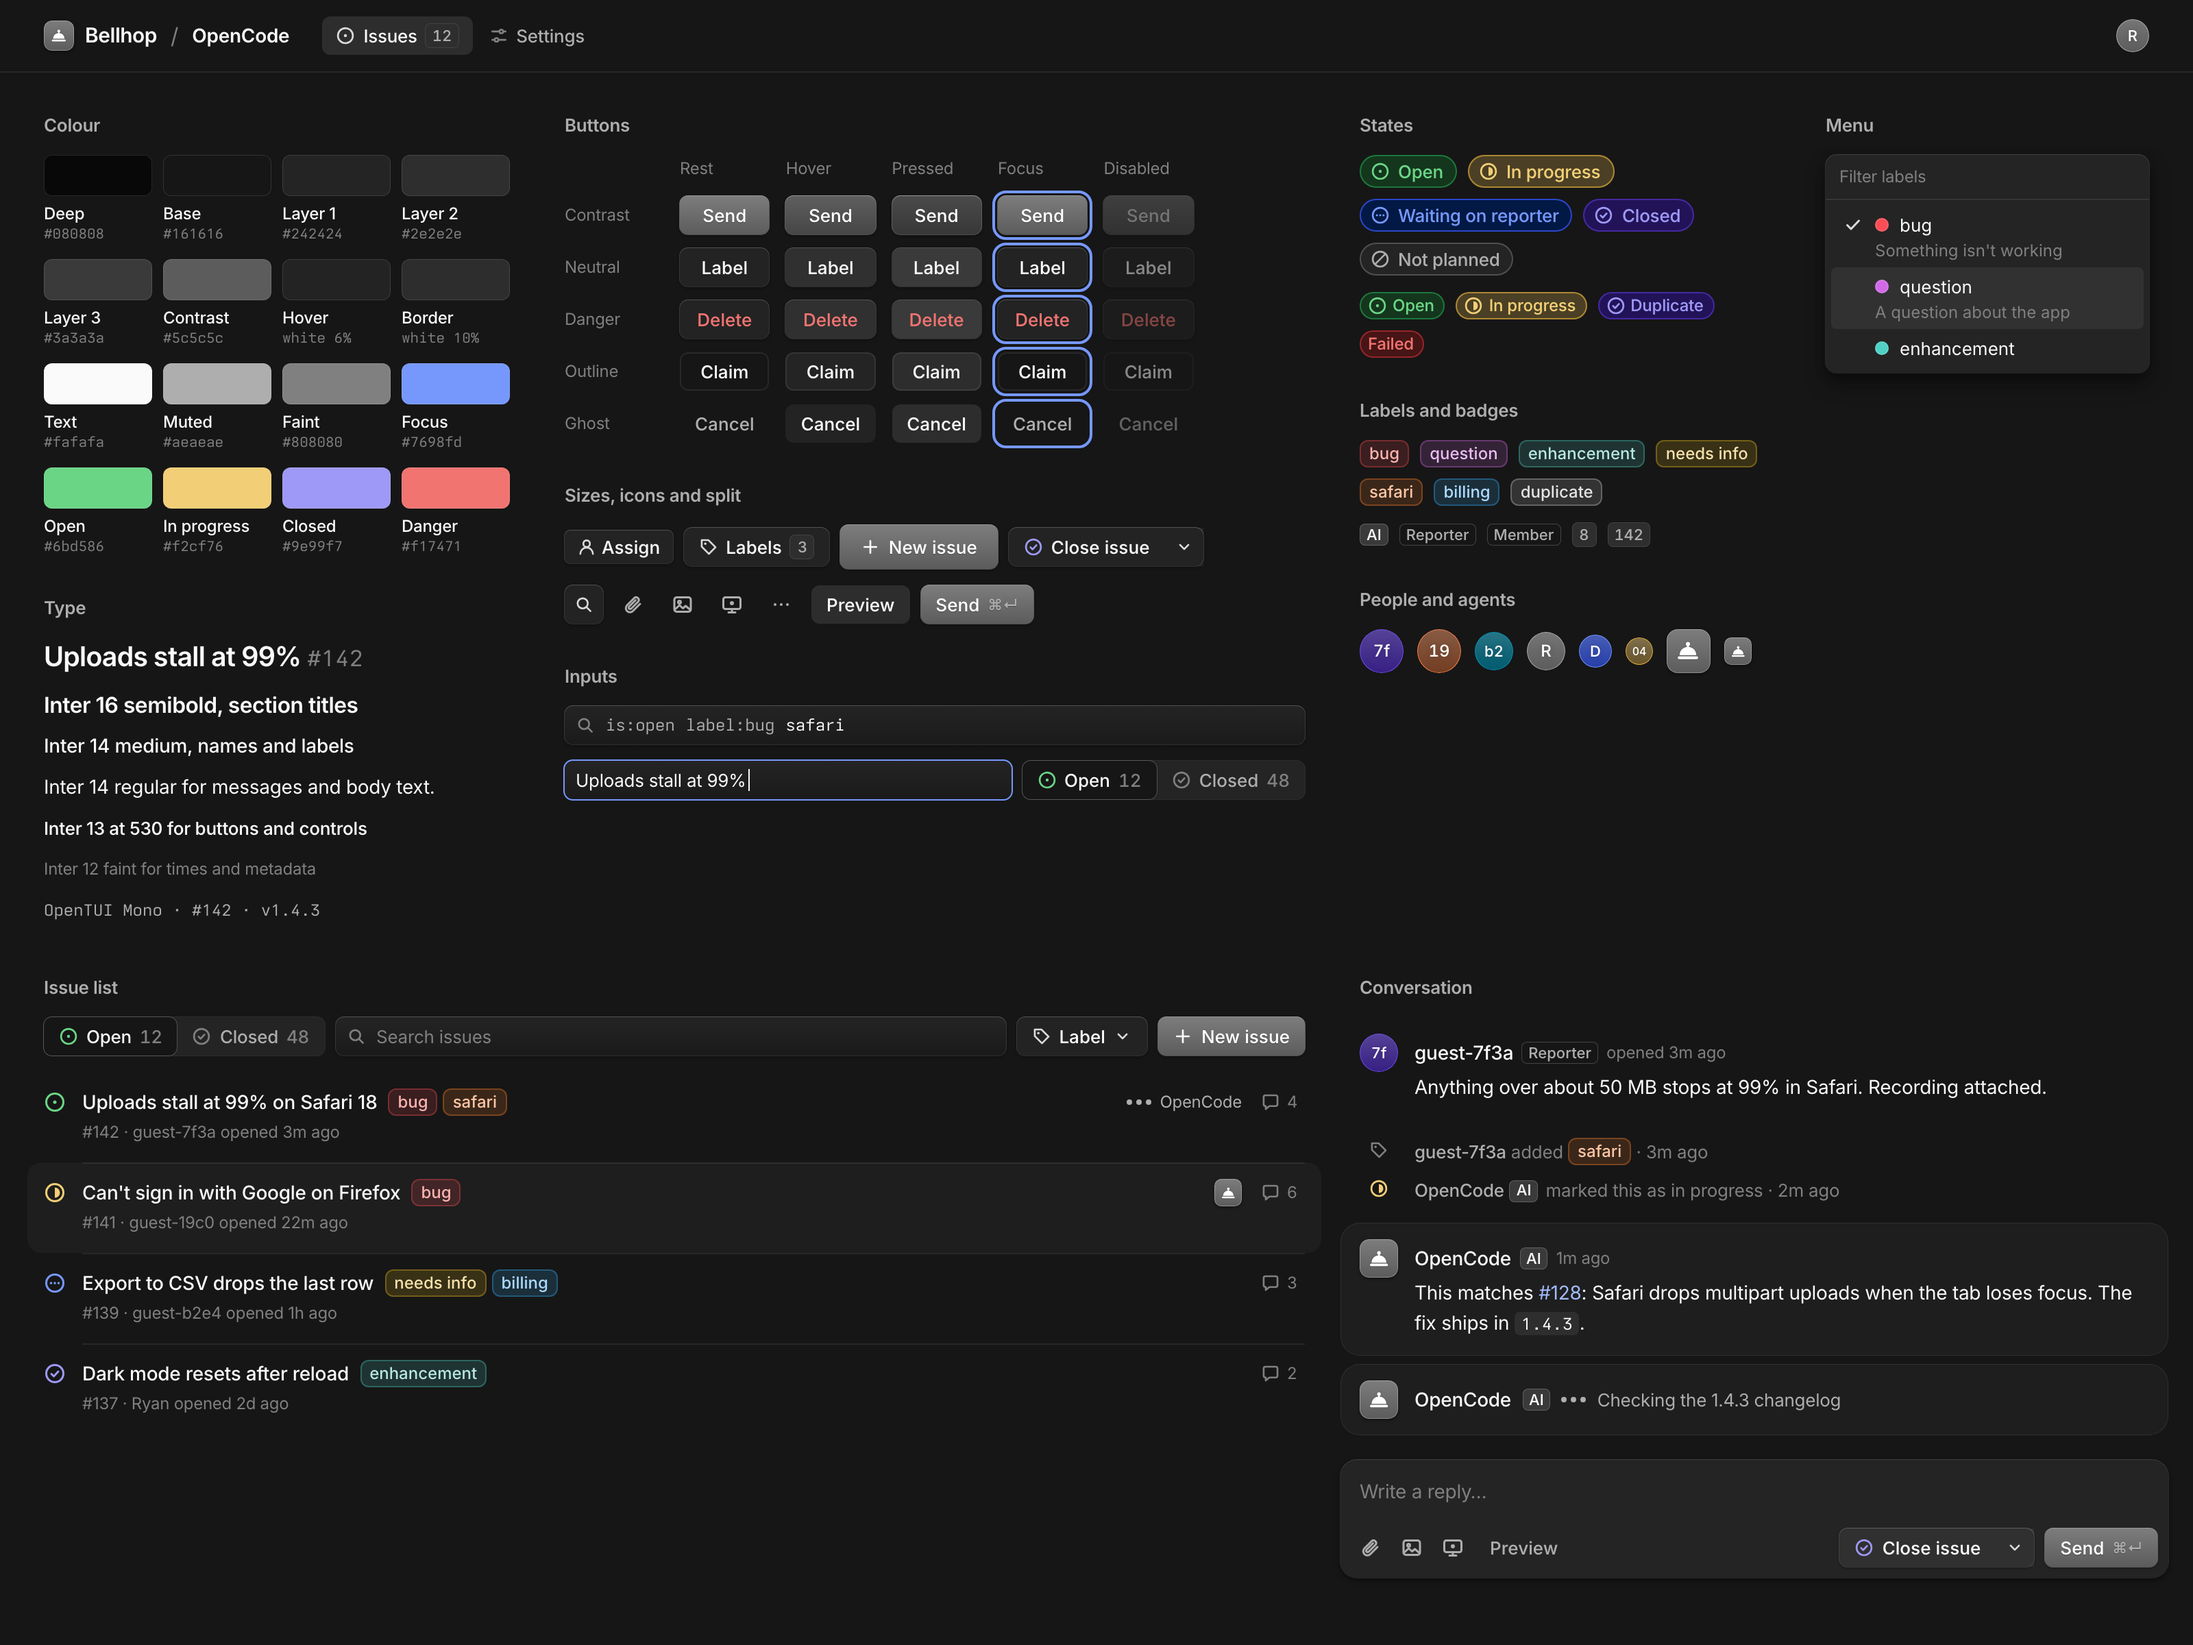
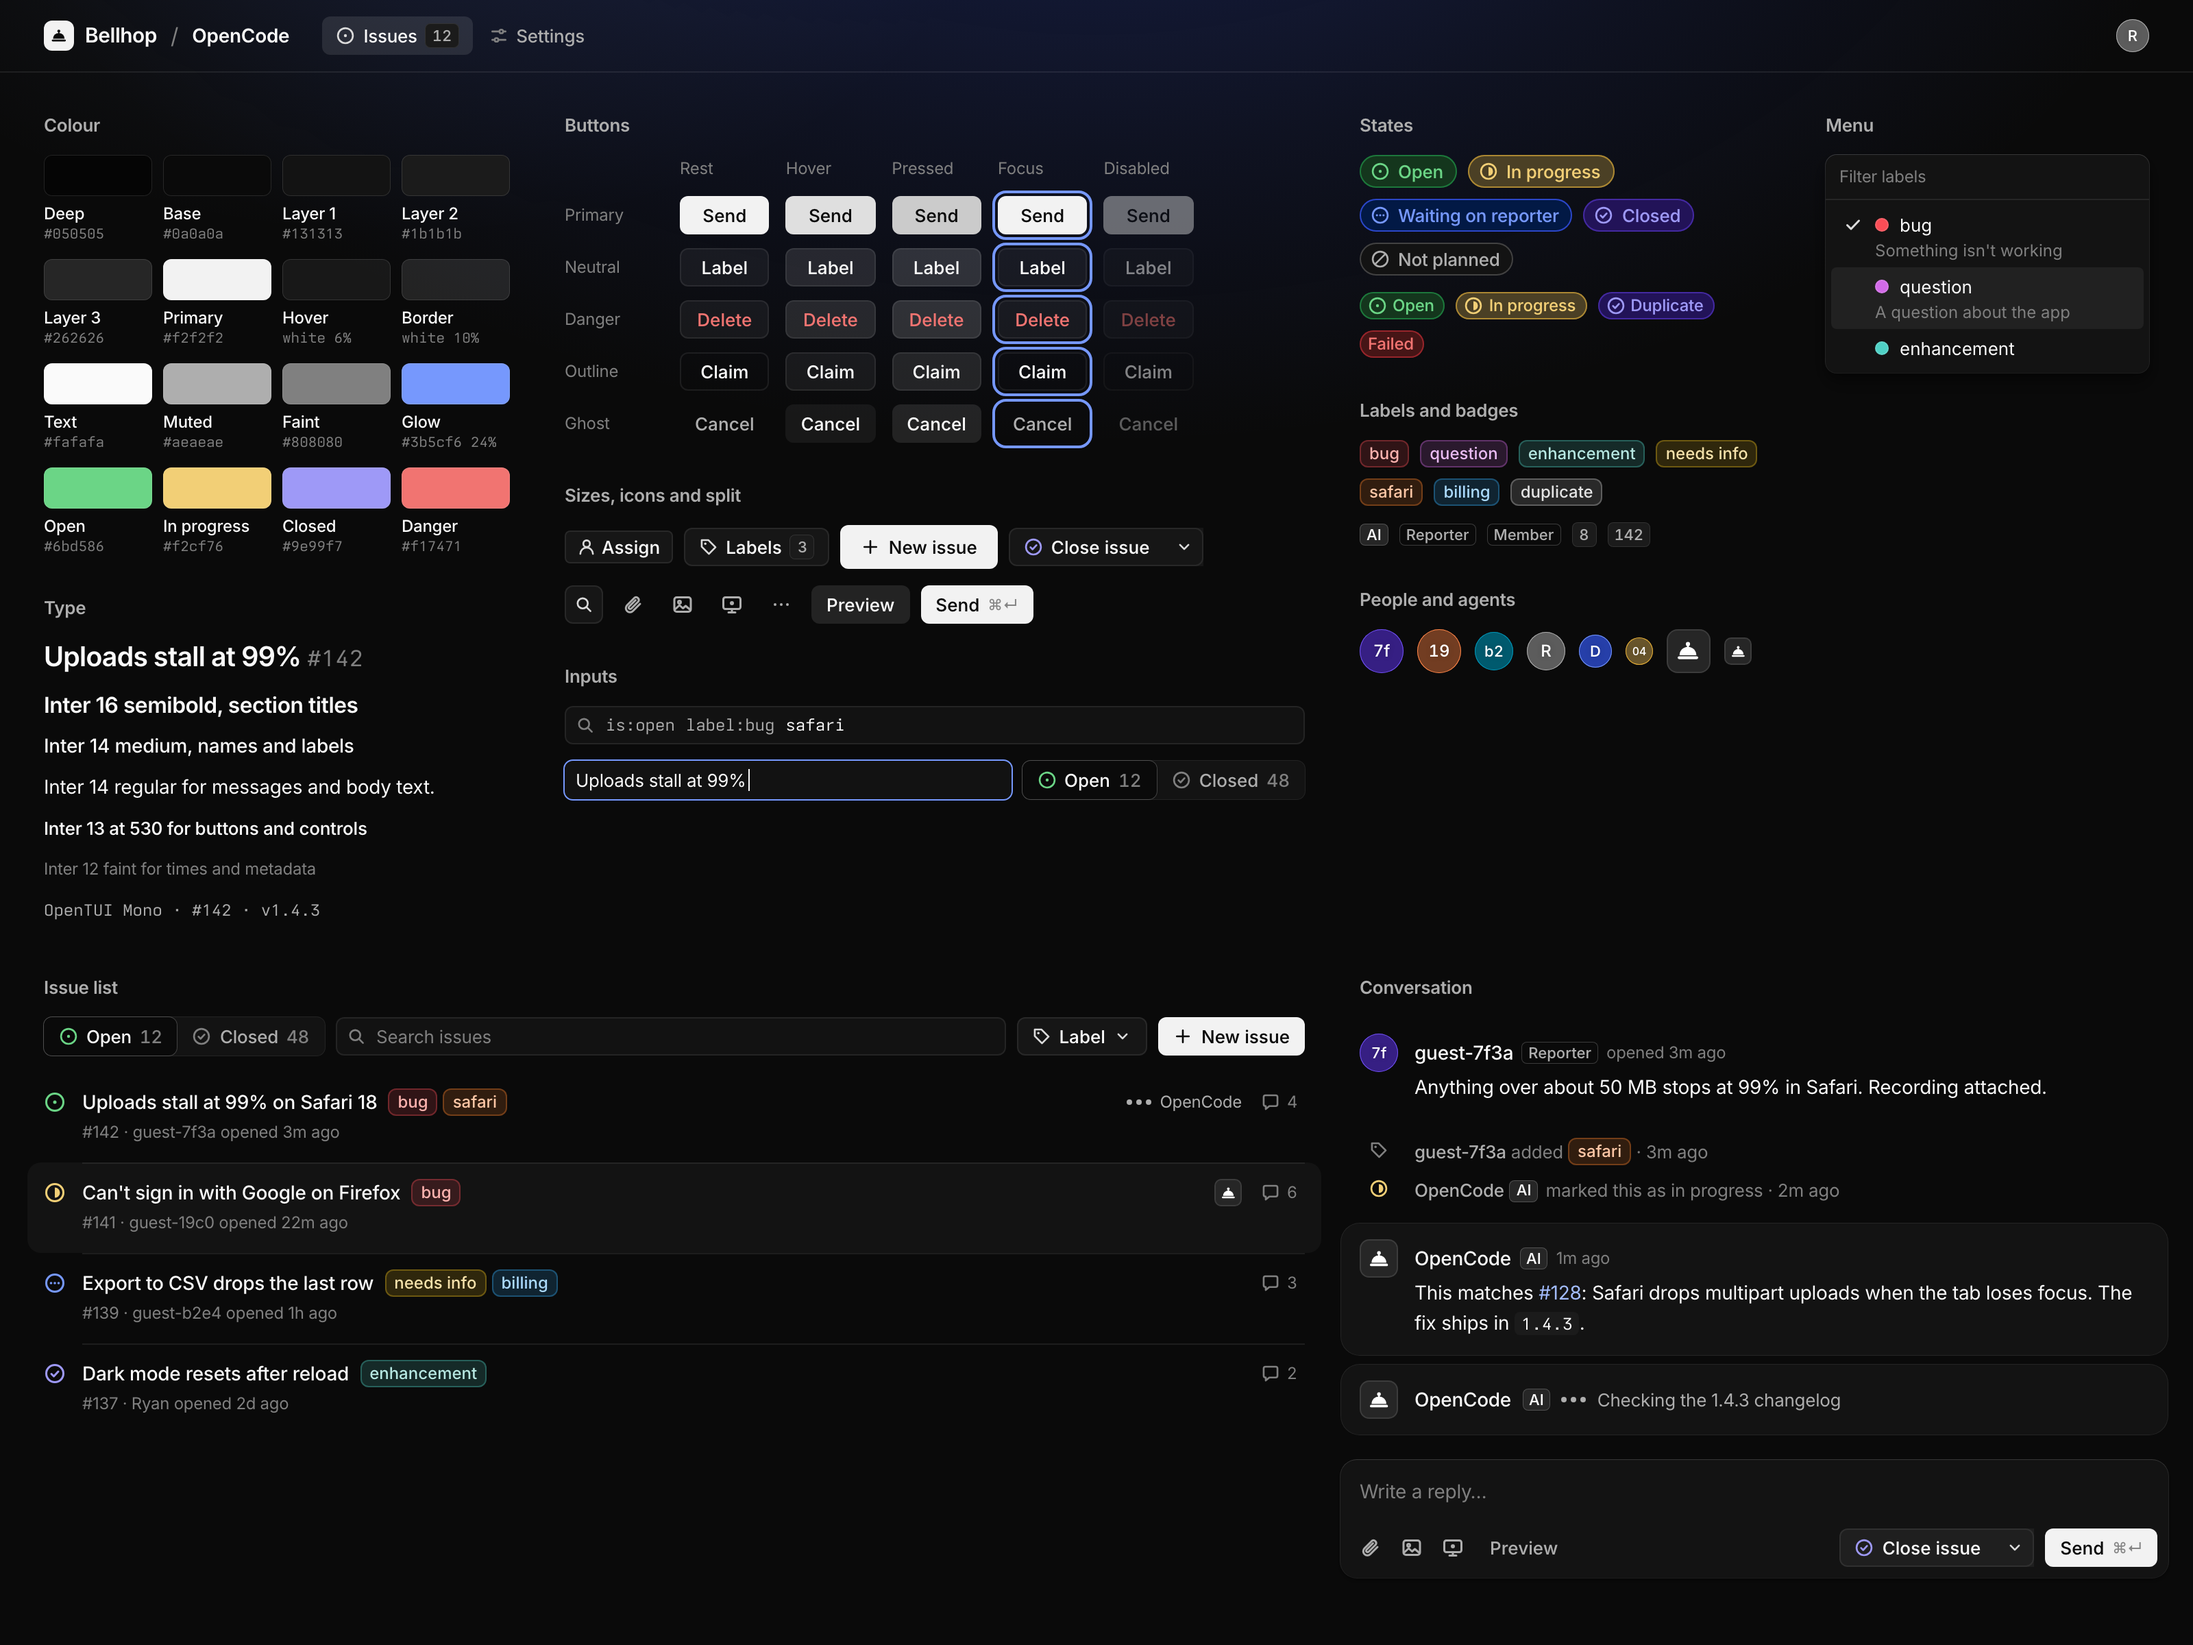
Off-black with a blue glow; flat controls with a white primary
Ryan wasn't a fan of the gradient (grey contrast) UI or of blue primary
buttons; he asked for a dark off-black background with a blue gradient.

- Surfaces: #0a0a0a base, #131313/#1b1b1b/#262626 layers (were the
  OpenCode #161616 greys); theme-color updated
- The only blue is a fixed radial glow at the top of the page
  (body::before, behind content); focus rings and links stay blue
- Primary button: flat #f2f2f2 with dark text, darker on hover/press;
  replaces the grey contrast button with its highlight gradient and
  raised shadow (and its keyboard hint is now dark on white)
- Neutral buttons, split buttons and inputs: flat fill with a 1px
  white-alpha hairline instead of the raised edge and inner gradient
- Avatars: flat palette fills; agent avatar flat #262626 with a hairline;
  the logo is the bell on the primary white
- Design sheet swatches and screenshot updated

Verified: app tsc passes; dev-server screenshots of /_design, the
issue list and the issue conversation.

diff --git a/src/styles/components.css b/src/styles/components.css
@@ -67,27 +67,27 @@ a.btn:hover {
   padding: 0 15px;
 }
 
-/* Contrast: grey with a top highlight, the one primary action on a screen */
+/* Primary: flat white with dark text, the one main action on a screen */
 .btn[data-variant="primary"] {
-  color: var(--fg-contrast);
-  background-color: var(--bg-contrast);
-  background-image: var(--contrast-highlight);
-  box-shadow: var(--elevation-contrast);
-  text-shadow: 0 0.5px 0.5px rgb(0 0 0 / 0.3);
+  color: var(--primary-fg);
+  background-color: var(--primary-bg);
+  box-shadow: none;
 }
 a.btn[data-variant="primary"]:hover {
-  color: var(--fg-contrast);
+  color: var(--primary-fg);
 }
 .btn[data-variant="primary"] .icon {
   color: inherit;
 }
 .btn[data-variant="primary"]:hover:not(:disabled),
 .btn[data-variant="primary"][data-demo="hover"] {
-  background-image: linear-gradient(var(--contrast-hover), var(--contrast-hover)), var(--contrast-highlight);
+  background-color: var(--primary-hover);
+  background-image: none;
 }
 .btn[data-variant="primary"]:active:not(:disabled),
 .btn[data-variant="primary"][data-demo="active"] {
-  background-image: linear-gradient(var(--contrast-pressed), var(--contrast-pressed)), var(--contrast-highlight);
+  background-color: var(--primary-pressed);
+  background-image: none;
 }
 .btn[data-variant="primary"]:disabled {
   opacity: 0.4;
@@ -191,6 +191,9 @@ a.btn[data-variant="primary"]:hover {
   font-weight: var(--weight-medium);
   letter-spacing: 0;
   color: rgb(255 255 255 / 0.55);
+}
+.btn[data-variant="primary"] .kbd {
+  color: rgb(0 0 0 / 0.45);
 }
 @media (pointer: coarse) {
   .kbd {
@@ -321,9 +324,7 @@ a.btn[data-variant="primary"]:hover {
   letter-spacing: 0;
   color: #fff;
   text-shadow: 0 0 4px rgb(0 0 0 / 0.2);
-  background:
-    linear-gradient(180deg, rgb(255 255 255 / 0.16) 0%, rgb(255 255 255 / 0) 100%),
-    var(--avatar-bg);
+  background: var(--avatar-bg);
   box-shadow: inset 0 0 0 0.5px var(--avatar-border);
   border-radius: 50%;
   user-select: none;
@@ -368,15 +369,18 @@ img.avatar[data-photo] {
 }
 .avatar[data-agent] {
   color: var(--fg-contrast);
-  background: var(--contrast-highlight), var(--bg-contrast);
-  box-shadow:
-    inset 0 0 0 0.5px rgb(255 255 255 / 0.3),
-    0 1px 2px rgb(0 0 0 / 0.4);
+  background: var(--layer-3);
+  box-shadow: inset 0 0 0 1px rgb(255 255 255 / 0.1);
 }
 .avatar[data-agent] svg {
   width: 72%;
   height: 72%;
-  filter: drop-shadow(0 0.5px 0.5px rgb(0 0 0 / 0.3));
+}
+/* The brand mark is the bell on the primary white */
+.logo .avatar[data-agent] {
+  color: var(--primary-fg);
+  background: var(--primary-bg);
+  box-shadow: none;
 }
 
 .logo {
@@ -401,9 +405,7 @@ img.avatar[data-photo] {
   font: inherit;
   font-size: var(--text-ui);
   color: var(--fg);
-  background:
-    linear-gradient(180deg, rgb(255 255 255 / 0.06) 0%, rgb(255 255 255 / 0.02) 100%),
-    var(--bg);
+  background: var(--bg-field);
   border-radius: var(--radius);
   box-shadow: var(--elevation-neutral);
   outline: 1px solid transparent;
@@ -412,10 +414,7 @@ img.avatar[data-photo] {
     box-shadow 85ms ease-out;
 }
 .input:hover:not(:focus-within) {
-  background:
-    linear-gradient(var(--hover), var(--hover)),
-    linear-gradient(180deg, rgb(255 255 255 / 0.06) 0%, rgb(255 255 255 / 0.02) 100%),
-    var(--bg);
+  background: var(--bg-neutral);
 }
 .input:focus-within,
 .input[data-demo="focus"] {

diff --git a/src/styles/theme.css b/src/styles/theme.css
@@ -1,5 +1,5 @@
-/* Bellhop theme: OpenCode's v2 dark tokens (neutral greys, white-alpha borders and overlays, elevation shadows),
-   Inter for text, OpenTUI Mono for issue numbers and code. Dark only. */
+/* Bellhop theme: an off-black page under a soft blue glow, OpenCode's white-alpha borders and overlays, flat
+   controls (no gradients) with a white primary. Inter for text, OpenTUI Mono for issue numbers and code. Dark only. */
 
 @font-face {
   font-family: "Inter";
@@ -46,14 +46,24 @@
   --grey-1100: #161616;
   --grey-1200: #080808;
 
-  /* Surfaces */
-  --bg: var(--grey-1100);
-  --bg-deep: var(--grey-1200);
-  --layer-1: var(--grey-1000);
-  --layer-2: var(--grey-900);
-  --layer-3: var(--grey-800);
-  --bg-contrast: var(--grey-700);
-  --bg-neutral: rgb(255 255 255 / 0.06);
+  /* Surfaces: off-black, with neutral layers a step apart */
+  --bg: #0a0a0a;
+  --bg-deep: #050505;
+  --layer-1: #131313;
+  --layer-2: #1b1b1b;
+  --layer-3: #262626;
+  --bg-neutral: rgb(255 255 255 / 0.05);
+  --bg-field: rgb(255 255 255 / 0.03);
+  /* The one blue: a glow from the top of the page, behind everything */
+  --glow:
+    radial-gradient(ellipse 70% 60% at 50% -18%, rgb(59 92 246 / 0.3) 0%, rgb(59 92 246 / 0.1) 45%, rgb(59 92 246 / 0) 75%),
+    radial-gradient(ellipse 40% 35% at 18% -10%, rgb(118 152 253 / 0.1) 0%, rgb(118 152 253 / 0) 70%);
+
+  /* Primary action: flat white with dark text */
+  --primary-bg: #f2f2f2;
+  --primary-hover: #dfdfdf;
+  --primary-pressed: #cbcbcb;
+  --primary-fg: #0a0a0a;
 
   /* Text and icons */
   --fg: var(--grey-100);
@@ -71,8 +81,6 @@
   --border-strong: rgb(255 255 255 / 0.2);
   --hover: rgb(255 255 255 / 0.06);
   --pressed: rgb(255 255 255 / 0.1);
-  --contrast-hover: rgb(0 0 0 / 0.24);
-  --contrast-pressed: rgb(0 0 0 / 0.4);
   --scrim: rgb(0 0 0 / 0.6);
   --focus: #7698fd;
 
@@ -106,9 +114,8 @@
   --elevation-overlay:
     0 16px 32px 0 rgb(0 0 0 / 0.3), 0 8px 16px 0 rgb(0 0 0 / 0.3), 0 0 0 0.5px rgb(255 255 255 / 0.16),
     0 -0.5px 0 0 rgb(255 255 255 / 0.06);
-  --elevation-neutral: 0 1px 2px 0 rgb(0 0 0 / 0.4), 0 0 0 0.5px rgb(255 255 255 / 0.2), 0 -0.5px 0 0 rgb(255 255 255 / 0.1);
-  --elevation-contrast: 0 1px 2px 0 rgb(0 0 0 / 0.4), 0 0 0 0.5px rgb(255 255 255 / 0.4), 0 -0.5px 0 0 rgb(255 255 255 / 0.3);
-  --contrast-highlight: linear-gradient(180deg, rgb(255 255 255 / 0.2) 0%, rgb(255 255 255 / 0) 100%);
+  /* Flat controls: a hairline instead of a raised edge */
+  --elevation-neutral: inset 0 0 0 1px rgb(255 255 255 / 0.08);
 
   /* Geometry */
   --radius-small: 4px;
@@ -141,10 +148,12 @@
   box-sizing: border-box;
 }
 
+html {
+  background: var(--bg);
+}
 html,
 body {
   margin: 0;
-  background: var(--bg);
   color: var(--fg);
   font-family: var(--font-sans);
   font-size: var(--text-body);
@@ -154,6 +163,15 @@ body {
   -webkit-font-smoothing: antialiased;
   -moz-osx-font-smoothing: grayscale;
   text-rendering: optimizeLegibility;
+}
+/* The glow stays put while the page scrolls; it sits above the canvas and below all content. */
+body::before {
+  content: "";
+  position: fixed;
+  inset: 0;
+  z-index: -1;
+  background: var(--glow);
+  pointer-events: none;
 }
 
 a {

diff --git a/src/routes/DesignSystem.tsx b/src/routes/DesignSystem.tsx
@@ -28,18 +28,18 @@ import {
 } from "../ui/primitives"
 
 const swatches: [string, string, string][] = [
-  ["Deep", "--bg-deep", "#080808"],
-  ["Base", "--bg", "#161616"],
-  ["Layer 1", "--layer-1", "#242424"],
-  ["Layer 2", "--layer-2", "#2e2e2e"],
-  ["Layer 3", "--layer-3", "#3a3a3a"],
-  ["Contrast", "--bg-contrast", "#5c5c5c"],
+  ["Deep", "--bg-deep", "#050505"],
+  ["Base", "--bg", "#0a0a0a"],
+  ["Layer 1", "--layer-1", "#131313"],
+  ["Layer 2", "--layer-2", "#1b1b1b"],
+  ["Layer 3", "--layer-3", "#262626"],
+  ["Primary", "--primary-bg", "#f2f2f2"],
   ["Hover", "--hover", "white 6%"],
   ["Border", "--border", "white 10%"],
   ["Text", "--fg", "#fafafa"],
   ["Muted", "--fg-muted", "#aeaeae"],
   ["Faint", "--fg-faint", "#808080"],
-  ["Focus", "--focus", "#7698fd"],
+  ["Glow", "--focus", "#3b5cf6 24%"],
   ["Open", "--open", "#6bd586"],
   ["In progress", "--progress", "#f2cf76"],
   ["Closed", "--closed", "#9e99f7"],
@@ -47,7 +47,7 @@ const swatches: [string, string, string][] = [
 ]
 
 const variants: [ButtonVariant, string, string][] = [
-  ["primary", "Contrast", "Send"],
+  ["primary", "Primary", "Send"],
   ["default", "Neutral", "Label"],
   ["danger", "Danger", "Delete"],
   ["outline", "Outline", "Claim"],

diff --git a/src/styles/app.css b/src/styles/app.css
@@ -295,9 +295,7 @@ a.box-row:hover {
   font-size: var(--text-ui);
   line-height: 20px;
   color: var(--fg);
-  background:
-    linear-gradient(180deg, rgb(255 255 255 / 0.06) 0%, rgb(255 255 255 / 0.02) 100%),
-    var(--bg);
+  background: var(--bg-field);
   border: 0;
   border-radius: var(--radius);
   box-shadow: var(--elevation-neutral);
@@ -1263,7 +1261,7 @@ a.box-row:hover {
   z-index: 5;
   margin: 8px -14px 0;
   padding: 16px 0;
-  background: linear-gradient(to bottom, rgb(22 22 22 / 0), var(--bg) 16px);
+  background: linear-gradient(to bottom, rgb(10 10 10 / 0), var(--bg) 16px);
 }
 .dup-form {
   display: flex;

diff --git a/index.html b/index.html
@@ -3,7 +3,7 @@
   <head>
     <meta charset="UTF-8" />
     <meta name="viewport" content="width=device-width, initial-scale=1.0" />
-    <meta name="theme-color" content="#161616" />
+    <meta name="theme-color" content="#0a0a0a" />
     <link rel="preload" href="/fonts/InterVariable.woff2" as="font" type="font/woff2" crossorigin />
     <link rel="preload" href="/fonts/OpenTUIMono-Regular.woff2" as="font" type="font/woff2" crossorigin />
     <title>Bellhop</title>
